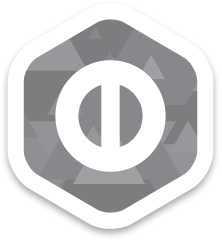
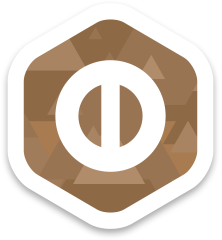
Fixes and style up the medals
- fix wrong query
- move description for achievement
- fix wrong medal filenames
- use large icons for medals page
- add actual style for medals page

diff --git a/resources/assets/less/bem/medals-group.less b/resources/assets/less/bem/medals-group.less
@@ -1,5 +1,3 @@
-<?php
-
 /**
  *    Copyright 2015 ppy Pty. Ltd.
  *
@@ -16,22 +14,40 @@
  *
  *    You should have received a copy of the GNU Affero General Public License
  *    along with osu!web.  If not, see <http://www.gnu.org/licenses/>.
+ *
  */
-namespace App\Transformers;
+.medals-group {
+  display: flex;
+  flex-wrap: wrap;
+  justify-content: space-between;
+  margin: 0 (-@spacing);
 
-use App\Models\Achievement;
-use League\Fractal;
+  &__group {
+    .default-box-shadow();
+    .default-border-radius();
+    width: calc(50% ~'-' (@spacing * 2));
+    margin: @spacing;
+    padding: @spacing;
+    display: inline-flex;
+    flex-direction: column;
+  }
 
-class AchievementTransformer extends Fractal\TransformerAbstract
-{
-    public function transform(Achievement $achievement)
-    {
-        return [
-            'id' => $achievement->achievement_id,
-            'name' => $achievement->name,
-            'grouping' => $achievement->grouping,
-            'slug' => $achievement->slug,
-            'description' => $achievement->quest_instructions,
-        ];
-    }
+  &__medal {
+    width: 70px;
+    margin: @spacing;
+  }
+
+  &__medals {
+    display: flex;
+    flex-wrap: wrap;
+    margin: 0 (-@spacing);
+  }
+
+  &__title {
+    color: @grey-5;
+    font-style: normal;
+    font-weight: 600;
+    font-size: 14px;
+    margin: 0 0 (@spacing * 2);
+  }
 }

diff --git a/resources/assets/less/bem-index.less b/resources/assets/less/bem-index.less
@@ -44,6 +44,7 @@
 @import "bem/kudosu-entries";
 @import "bem/link";
 @import "bem/logo-menu";
+@import "bem/medals-group";
 @import "bem/navbar-mobile";
 @import "bem/osu-layout";
 @import "bem/osu-nav";

diff --git a/app/Http/Controllers/UsersController.php b/app/Http/Controllers/UsersController.php
@@ -109,7 +109,7 @@ class UsersController extends Controller
         }
 
         $achievements = fractal_collection_array(
-            Achievement::whereNotNull('slug')->orderBy('grouping')->orderBy('ordering')->get(),
+            Achievement::where('slug', '<>', '')->orderBy('grouping')->orderBy('ordering')->get(),
             new AchievementTransformer()
         );
 

diff --git a/app/Transformers/UserAchievementTransformer.php b/app/Transformers/UserAchievementTransformer.php
@@ -32,7 +32,6 @@ class UserAchievementTransformer extends Fractal\TransformerAbstract
     {
         return [
             'achieved_at' => $userAchievement->date->toIso8601String(),
-            'description' => $achievement->quest_instructions,
         ];
     }
 
